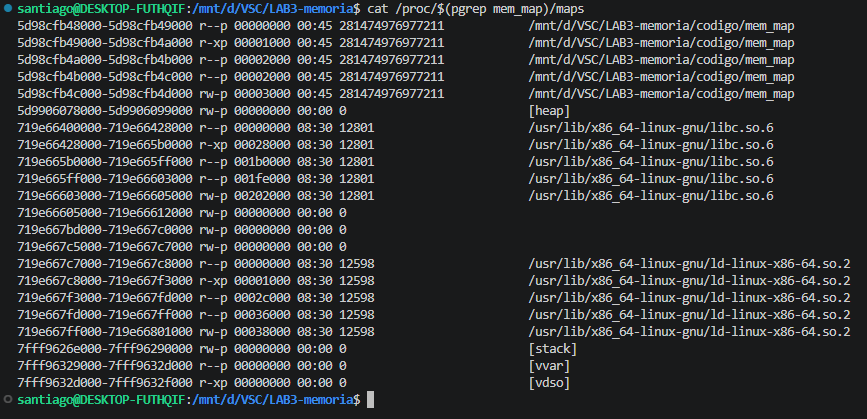
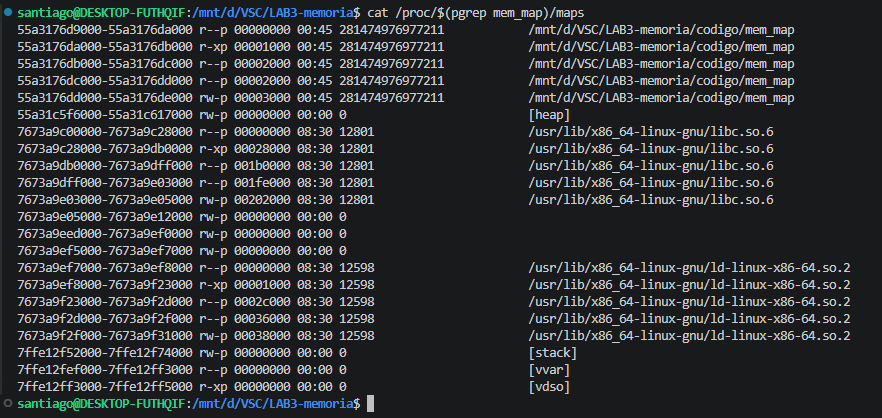
actualizacion informe

diff --git a/README.md b/README.md
@@ -11,20 +11,74 @@
 1. **Identifique en la salida de /proc/maps las regiones text, heap y stack. ¿Qué permisos
 (r/w/x/p) tiene cada una? ¿Por qué difieren?**
 
-    La región **text** se puede encontrar al comparar Dir. Código (main) : 0x5d98cfb49209 que es el resultado de la ejecución del código, con cada una de las líneas que salen al ejecutar ``cat /proc/$(pgrep mem_map)/maps`` en este resultado encontramos la línea 5d98cfb49000-5d98cfb4a000 r-xp 00001000 00:45 281474976977211 /mnt/d/VSC/LAB3-memoria/codigo/mem_map. Al realizar la comparación, se encuentra que la dirección 0x5d98cfb49209 esta dentro del rango 5d98cfb49000-5d98cfb4a000, adicional tiene los permisos de lectura, ejecución y private (r-xp), de los cuales se destaca el de ejecución, necesario para que el procesador pueda ejecutar el codigo y no tiene el de escritura, ya que por seguridad no debería poder ejecutarse y modificarse al mismo tiempo.
+    La región **text** se puede encontrar al comparar Dir. codigo (main) : 0x55a3176da209 que es el resultado de la ejecución del código, con cada una de las líneas que salen al ejecutar ``cat /proc/$(pgrep mem_map)/maps`` en este resultado encontramos la línea 55a3176da000-55a3176db000 r-xp 00001000 00:45 281474976977211            /mnt/d/VSC/LAB3-memoria/codigo/mem_map. Al realizar la comparación, se encuentra que la dirección 0x5d98cfb49209 esta dentro del rango 55a3176da000-55a3176db000, adicional tiene los permisos de lectura, ejecución y private (r-xp), de los cuales se destaca el de ejecución, necesario para que el procesador pueda ejecutar el codigo y no tiene el de escritura, ya que por seguridad no debería poder ejecutarse y modificarse al mismo tiempo.
 
-![wish](capturas/mem_map1.PNG)
+    La región **Heap** de manera similar se puede identificar de manera similar al comparar Dir. heap_var : 0x55a31c5f62a0 con el resultado de ejecutar ``cat /proc/$(pgrep mem_map)/maps``. En este caso, la dirección 0x55a31c5f62a0 está dentro del rango 55a31c5f6000-55a31c617000. En cuanto a los permisos que tiene, son de lectura, escritura y private (rw-p). En cuanto a la comparación del Heap y Stack tienen el mismo tipo de permisos, y debe ser de esta manera para poder leer y escribir variables, punteros o retornos de función en tiempo de ejecución. En cuanto a la región de text se nota claramente que no cuentan con el permiso de ejecución, (x) ya que por seguridad no debería un programa poder escribir y ejecutar al mismo tiempo.
 
-### **Implementación de shell basico, Path, Built-in commands**
-- Funcion  ``print_error()``: Esta función es utilizada para los casos en los cuales el aplicativo genere algún error en ejecución, por lo cual se centraliza con esta función la cual incluye subfunciones como ``write()`` para poder imprimir por la salida de errores el mensaje y ``strlen()`` la cual ayuda a contar la cantidad de caracteres o bytes que tiene el mensaje a mostrar.
+    De manera similar, la región **Stack** se logra encontrar a partir de comparar Dir. local_var : 0x7ffe12f7225c con el resultado de ejecutar ``cat /proc/$(pgrep mem_map)/maps``, en cuyo resultado encontramos el rango de direcciones 7ffe12f52000-7ffe12f74000, en cuyo rango cabe perfectamente el resultado de Dir. local_var, otro dato a tener en cuenta es que el rango de direcciones se nos está dando en la parte superior de la memoria; en cuanto a los permisos que tiene, son de lectura, escritura y private (rw-p). En cuanto a la comparación del Heap y Stack tienen el mismo tipo de permisos, y debe ser de esta manera para poder leer y escribir variables, punteros o retornos de función en tiempo de ejecución; así mismo, la única diferencia con la región text es el permiso de private (x).
+
+
+2. Compare las direcciones impresas con los rangos de /proc/maps. ¿A qué región pertenece
+cada variable?
+
+    Al realizar la ejecucion del codigo se obtiene el siguiente resultado:
+    PID del proceso : 5716
+    Dir. codigo (main) : 0x55a3176da209
+    Dir. global_var : 0x55a3176dd010
+    Dir. local_var : 0x7ffe12f7225c
+    Dir. heap_var : 0x55a31c5f62a0
+
+    Al comparar cada direccion se puede obtener los siguientes rangos y al frente se coloca la direccion que pertenece a cada rango.
+    55a3176d9000-55a3176da000 
+    55a3176da000-55a3176db000  -> Dir. codigo (main) : 0x55a3176da209 (Region text)
+    55a3176db000-55a3176dc000
+    55a3176dc000-55a3176dd000
+    55a3176dd000-55a3176de000  -> Dir. global_var : 0x55a3176dd010 (Region Data)
+    55a31c5f6000-55a31c617000  -> Dir. heap_var : 0x55a31c5f62a0 (Region heap)
+    7673a9c00000-7673a9c28000 
+    7673a9c28000-7673a9db0000 
+    7673a9db0000-7673a9dff000 
+    7673a9dff000-7673a9e03000 
+    7673a9e03000-7673a9e05000 
+    7673a9e05000-7673a9e12000 
+    7673a9eed000-7673a9ef0000  
+    7673a9ef5000-7673a9ef7000 
+    7673a9ef7000-7673a9ef8000 
+    7673a9ef8000-7673a9f23000 
+    7673a9f23000-7673a9f2d000   
+    7673a9f2d000-7673a9f2f000 
+    7673a9f2f000-7673a9f31000 
+    7ffe12f52000-7ffe12f74000  -> Dir. local_var : 0x7ffe12f7225c (Region stack)
+    7ffe12fef000-7ffe12ff3000 
+    7ffe12ff3000-7ffe12ff5000
+3. ¿Qué otras regiones aparecen en el mapa (libc, [vdso], [vsyscall])? ¿Que función
+cumple cada una?
+
+    Otra región que aparece es (data) y es la región donde se almacena global_var.
+
+    libc.so.6: Es la librería estándar de C en la cual se encuentran la mayoría de    funciones, como son: ``printf()``, ``malloc()``, ``scanf()``
+
+    vdso (Virtual Dynamic Shared Object): Es una biblioteca del kernel la cual ayuda a ejecutar ciertas tareas básicas que, debido a su simplicidad, no es necesario realizar una llamada al sistema, sino más bien realizarlas en tiempo de ejecución.
+
+    vvar: Contiene los datos que el vdso necesita para trabajar.
+
+    Cargador Dinámico (Dynamic Linker/Loader)ld-linux: Se encarga de conectar funciones básicas como ``printf()``, ``malloc()``, ``scanf()`` con la ejecución de las demás funciones de mi código; adicionalmente, es como el iniciador del programa, ayudando a que todo funcione de manera unificada.
+
+4. ¿Son las direcciones virtuales iguales a las fisicas? Explique apoyandose en el concepto de address space del OSTEP.
+
+    Según el libro de (Operating Systems: Three Easy Pieces) el (address space) o espacio de direccionamiento se refiere a la abstracción que realiza el sistema operativo en cuanto al espacio de memoria que ocupa un proceso. En este caso, la abstracción consiste en hacerle creer que tiene toda la memoria RAM a su disposición, que empieza en 0 y llega hasta un máximo (por ejemplo, $2^{n}-1$). En cuanto a una dirección virtual, se refiere a la dirección de memoria que se le asigna al proceso, sin embargo, internamente, esta dirección no corresponde a la dirección física, la cual es la verdadera dentro de toda la ejecución del programa. Es por esta abstracción que se puede decir que una dirección virtual no es lo mismo que una dirección física, ya que su valor cambia constantemente.
+
 
 ## (c) Problemas presentados durante el desarrollo de la práctica y sus soluciones.
 
 
 ## (d) Pruebas realizadas a los programas que verificaron su funcionalidad.
 
-En la siguiente imagen se observa la ejecución del shell ingresando un archivo en el cual se encuentran los comandos a ejecutar (modo batch)
-![wish](capturas/wish.PNG)
+En la siguiente imagen se observa la ejecución del programa base y su resultado
+![wish](capturas/mem_map2.PNG)
+
+Luego el resultado de realizar abrir una segunda terminal y leer el mapa de memoria del proceso mediante el comando cat /proc/$(pgrep mem_map)/maps
+![wish](capturas/mem_map1.PNG)
 
 
 ## (e) Un enlace a un video de 10 minutos donde se sustente el desarrollo.
